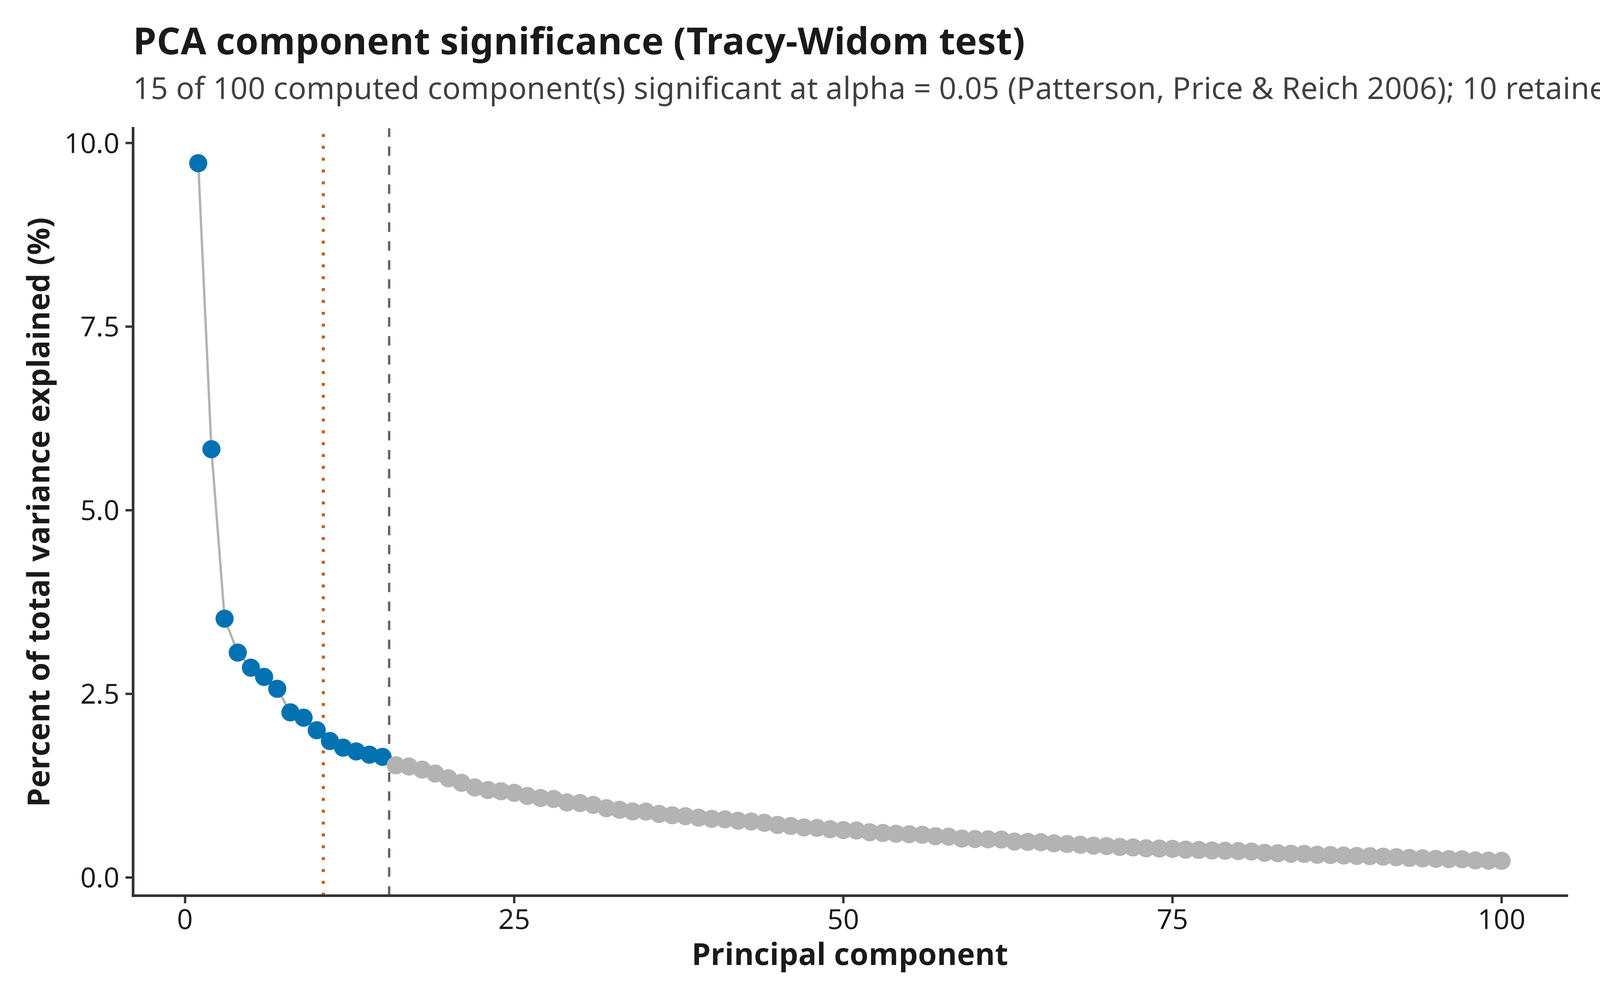
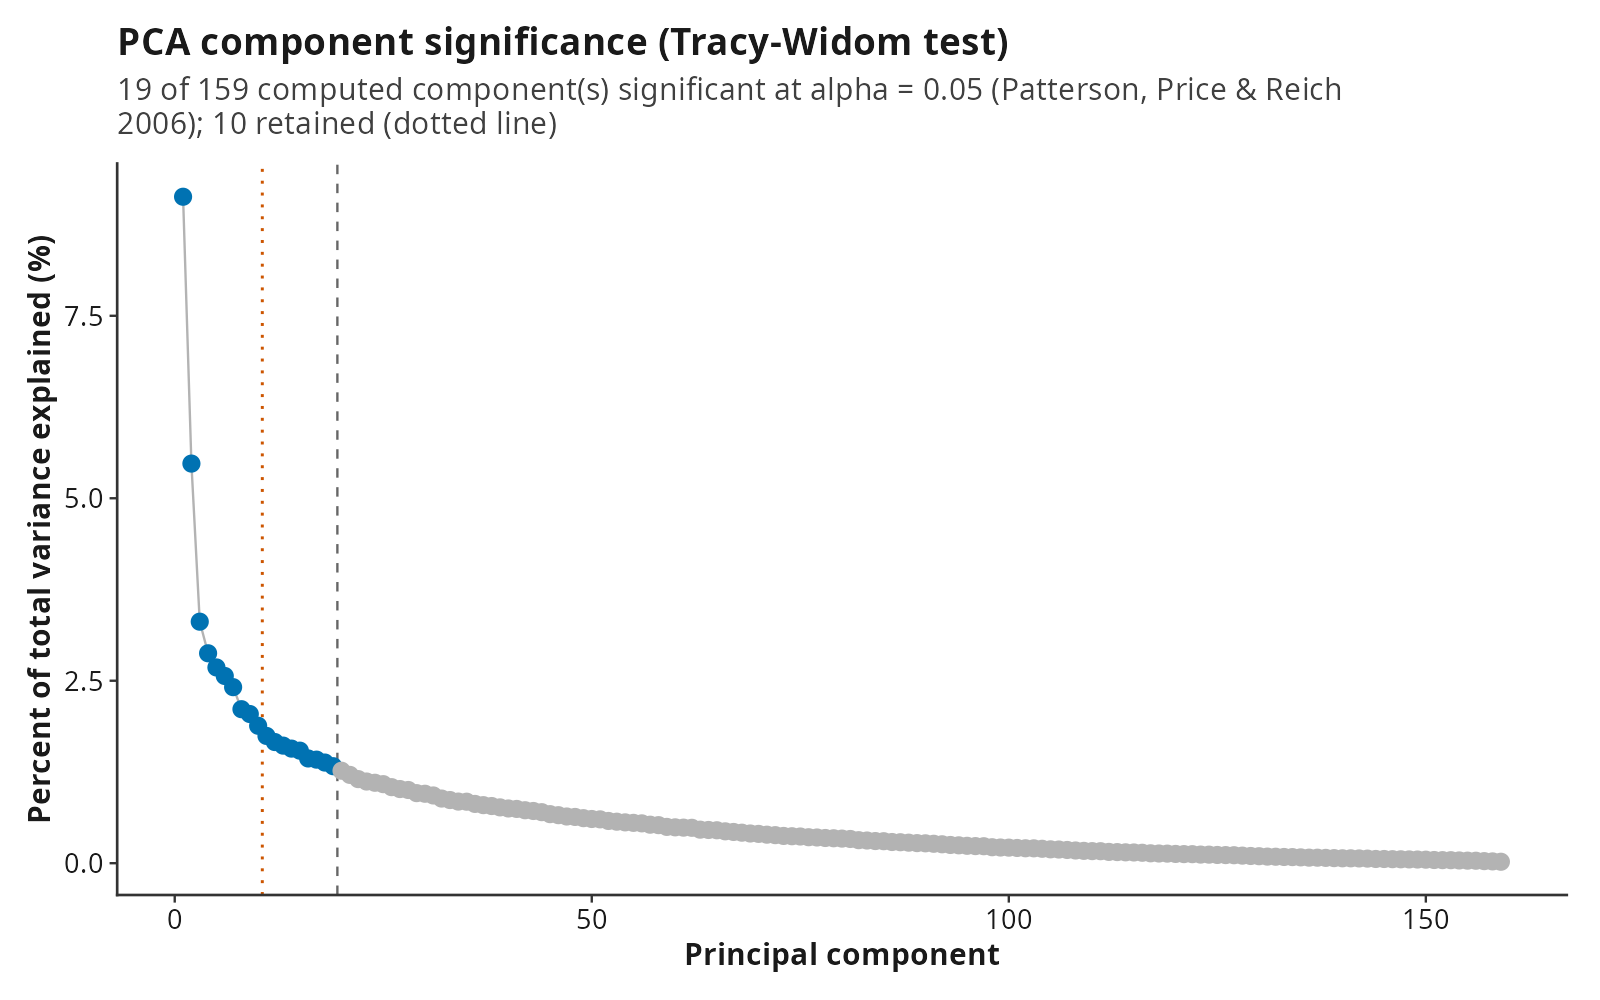
Run Tracy-Widom on the full eigenvalue spectrum; make clonality permutation p-values reproducible
The Tracy-Widom statistics depend on the sum of all remaining
eigenvalues, but only the top 100 were computed (15 vs 19 significant
components on the quickstart data). poppr's permutation test ran in a
fork that mcparallel() reseeded, ignoring compute.seed. Quickstart
figure, wiki, and vignette updated.

Claude-Session: https://claude.ai/code/session_01D4onVdW5nemQZbdv3J94nG

diff --git a/NEWS.md b/NEWS.md
@@ -1,5 +1,10 @@
 # popgenVCF 1.0.15.9000 development
 
+- **A third code pass, in increments. Increment 1 (ordination and clonality):**
+
+  - **`ordination.R` -- the Tracy-Widom test was run on a truncated eigenvalue spectrum.** Each statistic scales the k-th eigenvalue by the sum (and sum of squares) of every eigenvalue from k onward, but only the top 100 were computed and passed in, so every p-value changed for cohorts above 101 samples. On the quickstart data (160 samples) the top-100 slice gave 15 significant components; the full 159-value spectrum gives 19. The whole non-trivial spectrum is now computed whenever the test runs; `n_pcs: "auto"` still retains at most 100. The quickstart figure, wiki, and vignette are updated (19 of 159). Cohorts of 101 samples or fewer are unaffected.
+  - **`clonality.R` -- Ia/rbarD permutation p-values were not reproducible.** `poppr::poppr()` runs in a forked child for crash isolation, and `mcparallel()`'s default `mc.set.seed = TRUE` reseeds that child from the process, discarding the `set.seed()` made just before it. With `clonality_ia_permutations > 0`, identical runs gave different p-values. The child now inherits the seeded state.
+
 - **`man/publication_ordination_outputs.Rd`** (after the `v1.0.15` tag): the `variance_explained_unit` argument added in the first review pass was never added to this hand-maintained Rd page, so `R CMD check` reported a code/documentation mismatch WARNING and the R-CMD-check workflow failed on `main`. Documentation only; the tagged 1.0.15 code is unaffected. `tools::codoc()` is clean for the whole package again.
 
 # popgenVCF 1.0.15

diff --git a/wiki/Results-and-Interpretation.md b/wiki/Results-and-Interpretation.md
@@ -101,8 +101,8 @@ example), but every run also compares that choice against the sequential
 Tracy-Widom eigenvalue significance test (Patterson, Price & Reich 2006 --
 the same test EIGENSOFT's `smartpca` uses for its own automatic PC-count
 selection), letting you check how close a fixed choice is to the
-data-driven one without committing to it. In the quickstart example, 15 of
-100 computed components are Tracy-Widom-significant against the fixed
+data-driven one without committing to it. In the quickstart example, 19 of
+159 computed components are Tracy-Widom-significant against the fixed
 choice of 10 -- the dashed line marks the significance cutoff, the dotted
 line marks the fixed 10 actually retained. Set `analyses.n_pcs: "auto"`
 to retain the Tracy-Widom-significant count directly instead of a fixed
